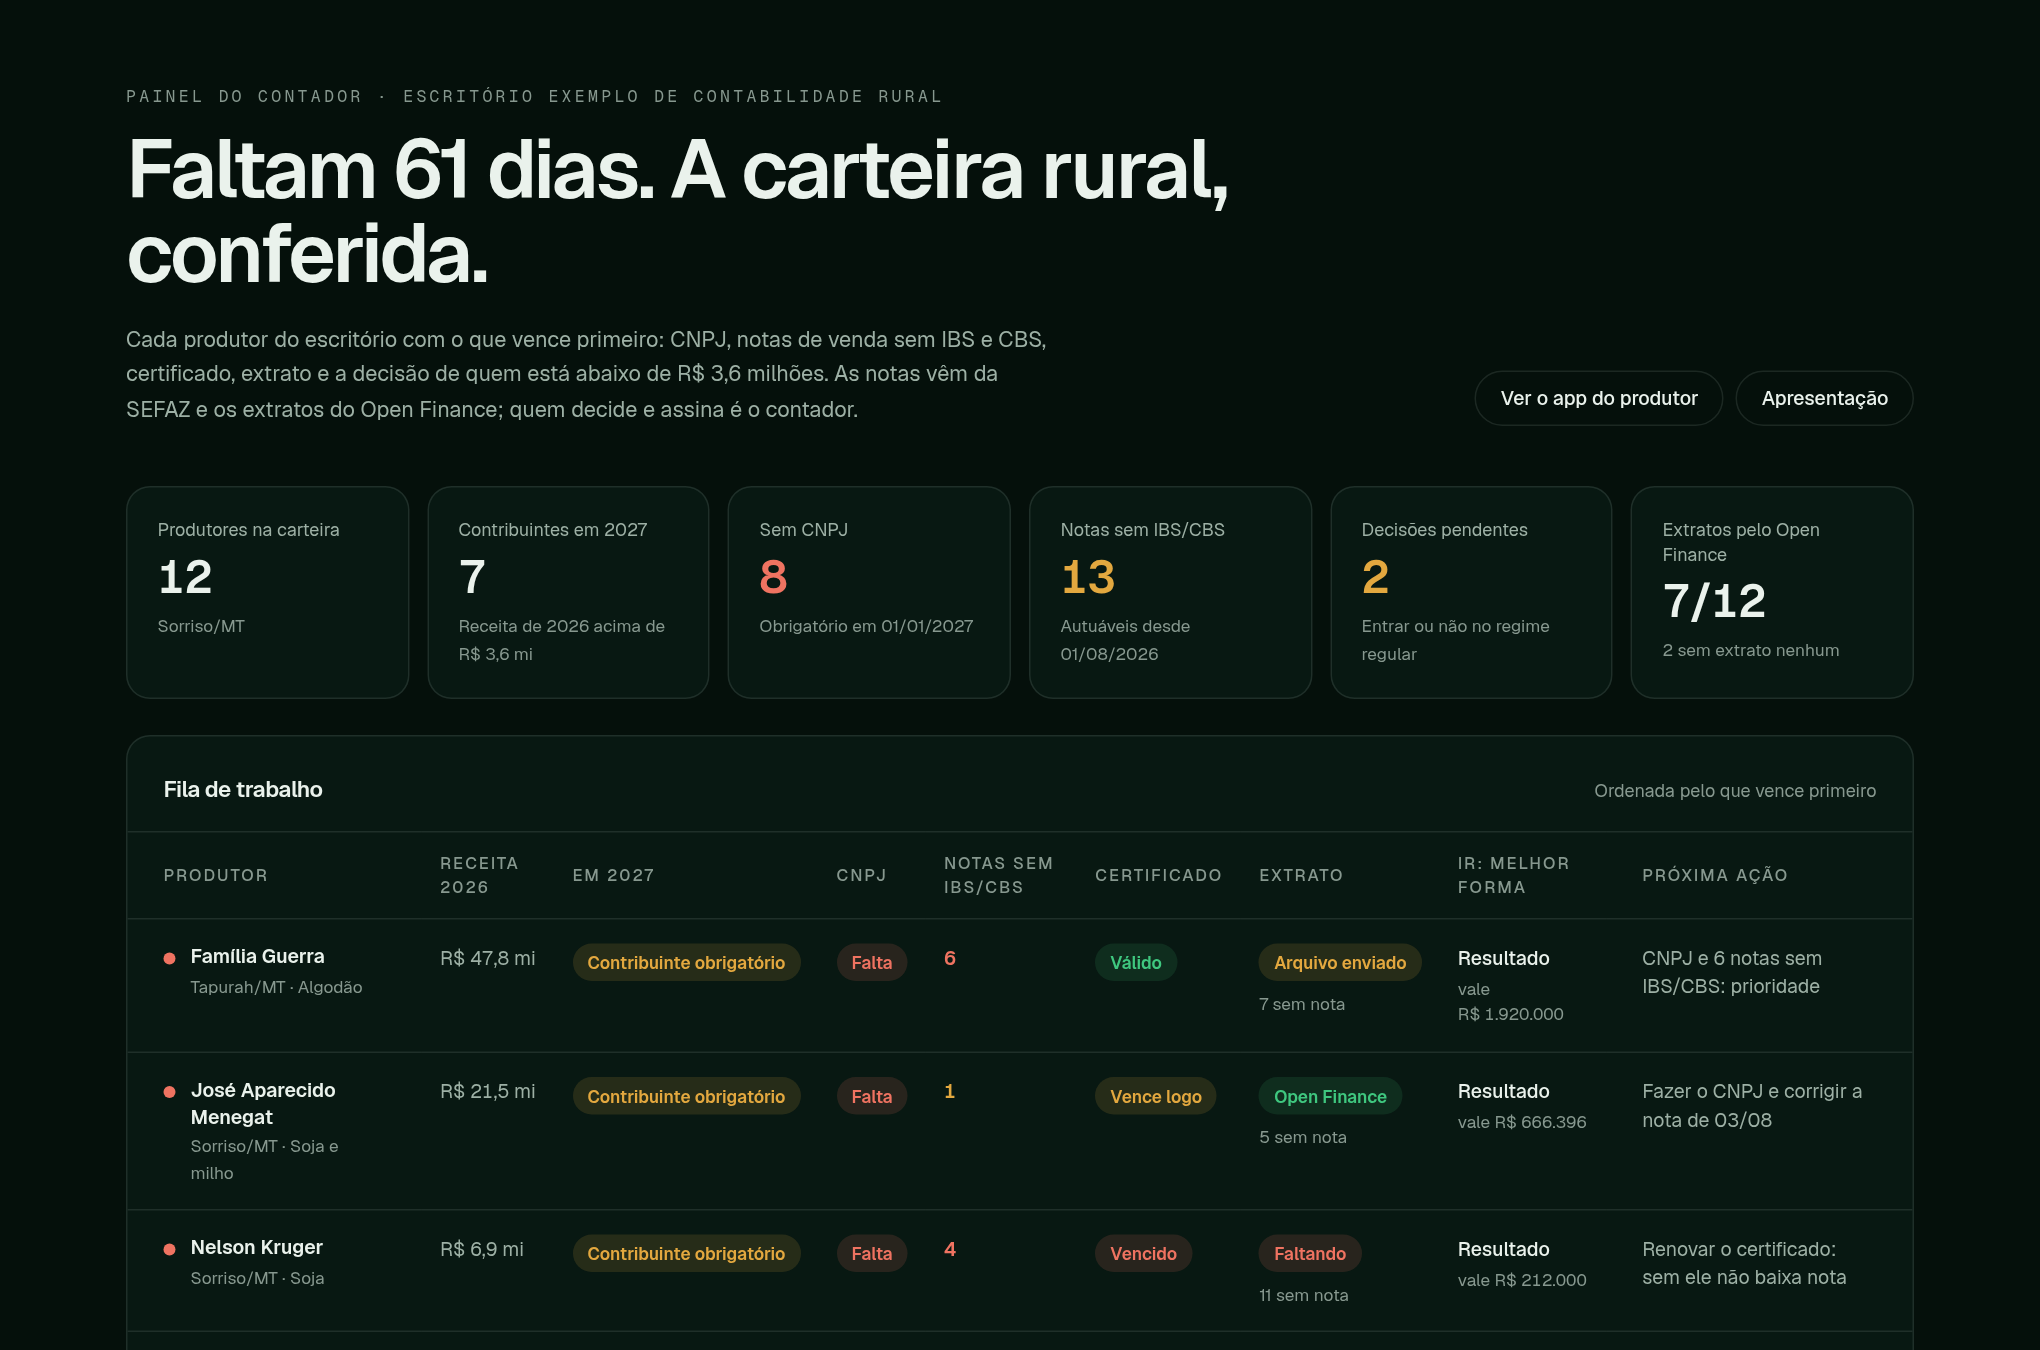
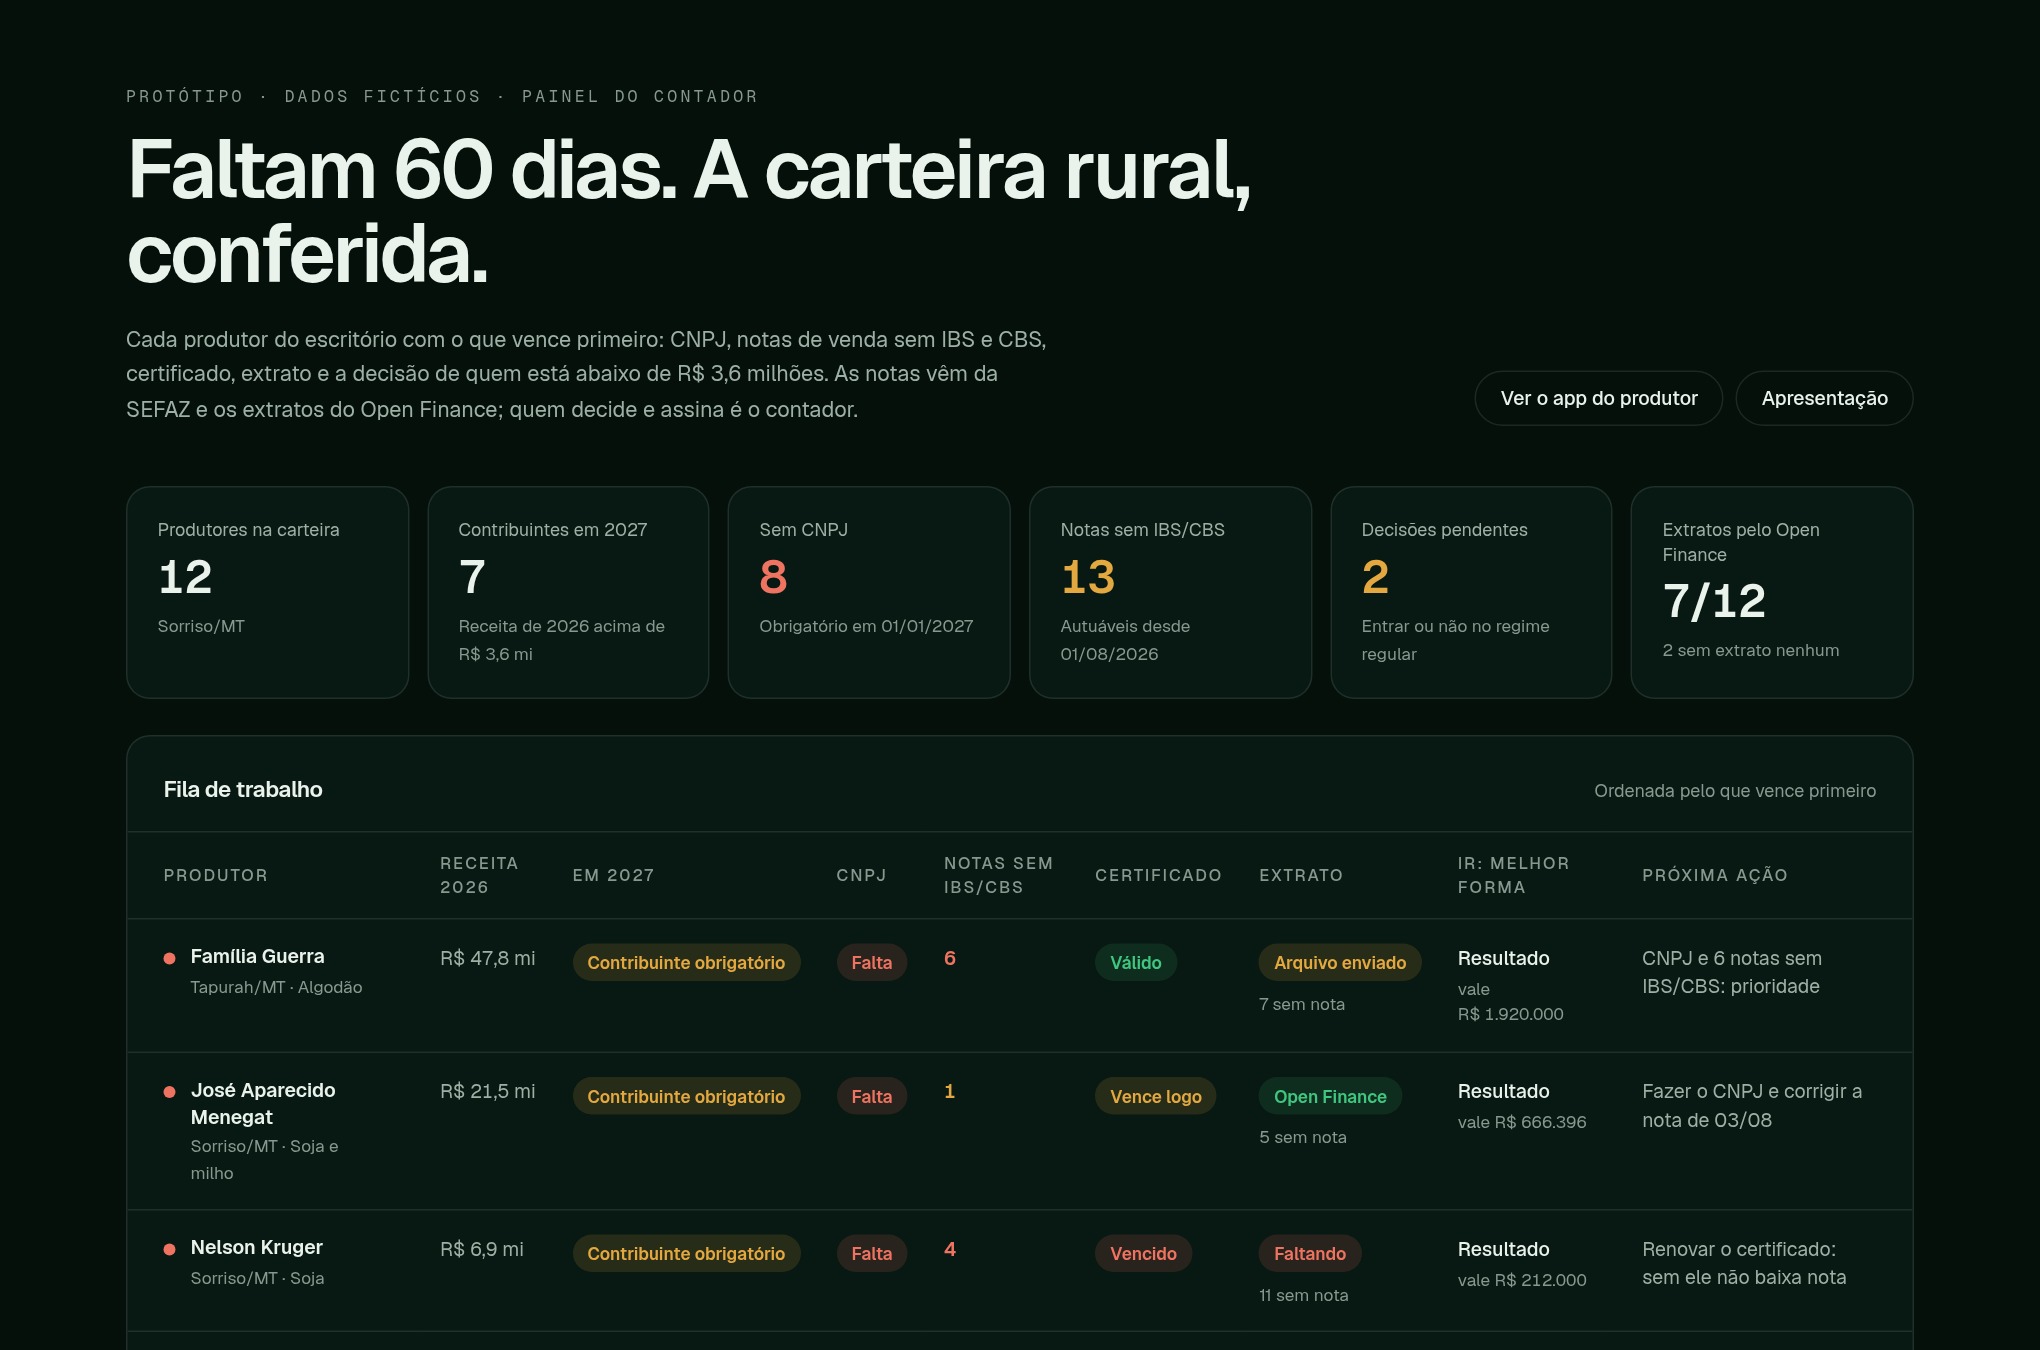
Deixa explícito que é protótipo e que a pesquisa está em andamento
Site, app e painel passam a dizer que não há sistema em operação, só um
protótipo de arquitetura com dados fictícios, e que os 11 resultados da
pesquisa são preliminares. Capturas refeitas com o selo de protótipo.

Changed region(s): [[0.2162, 0.0622, 0.6176, 0.1556], [0.1235, 0.0622, 0.1544, 0.0933], [0.0618, 0.0622, 0.0926, 0.0933]]

diff --git a/app/src/app/page.tsx b/app/src/app/page.tsx
@@ -408,7 +408,8 @@ const NORMAS = [
 ];
 
 const LIMITES = [
-  "Zero clientes. O protótipo demonstra a tese, não a comprova, e a pesquisa ouviu 11 produtores, quase todos fora do perfil-alvo.",
+  "Nada está em operação: não há sistema funcionando, integração real, cliente nem receita. O que existe é um protótipo navegável da arquitetura, com dados fictícios.",
+  "A pesquisa de mercado está em andamento: 11 respostas até agora, quase todas fora do perfil-alvo. Os resultados são preliminares e precisam de mais respostas.",
   "O Fisco vai pré-preencher a apuração mensal. Se conferir e planejar não valer dinheiro para o escritório, a cunha encolhe.",
   "O software contábil que o escritório já usa vai atualizar para IBS e CBS. Precisamos ser melhores no rural, não só existir.",
   "A alíquota da CBS e o crédito presumido ainda dependem de ato do governo. Toda simulação mostra as premissas.",
@@ -907,9 +908,9 @@ function Produto() {
   return (
     <>
       <Secao id="produto" className="pb-10 pt-24 md:pt-32">
-        <p className="rotulo mb-5">Protótipo funcional</p>
+        <p className="rotulo mb-5">Protótipo de arquitetura</p>
         <h2 className="display-2 max-w-[24ch] text-[clamp(1.8rem,3.4vw,2.7rem)]">
-          O painel do escritório e o app do produtor já rodam.
+          Como seria: o painel do escritório e o app do produtor.
         </h2>
         <Reveal delay={0.1}>
           <Link href="/contador" className="group mt-10 block">
@@ -927,8 +928,8 @@ function Produto() {
               <ArrowUpRight size={15} weight="bold" className="text-[--acento]" />
             </p>
             <p className="mt-1.5 max-w-[60ch] text-[13px] leading-relaxed text-[--tinta-2]">
-              Doze produtores de um escritório de Sorriso, ordenados pelo que vence primeiro. É a tela que
-              o cliente pagante usa.
+              Protótipo navegável com escritório e produtores fictícios, sem integração real. Mostra a tela
+              que o cliente pagante usaria.
             </p>
           </Link>
         </Reveal>
@@ -1075,11 +1076,11 @@ function Evidencia() {
       <div className="grid gap-14 lg:grid-cols-2 lg:gap-20">
         <div>
           <p className="rotulo mb-5">O que ouvimos</p>
-          <h2 className="display-2 max-w-[18ch]">11 produtores, e uma tese que não sobreviveu.</h2>
+          <h2 className="display-2 max-w-[18ch]">Pesquisa em andamento: o que 11 respostas já sugerem.</h2>
           <p className="mt-5 max-w-[46ch] text-[15px] leading-relaxed text-[--tinta-2]">
-            A pesquisa de dor de outubro mediu o que o produtor já vive, não o interesse num produto. Oito
-            dos onze são de Minas Gerais e sete faturam até R$ 1 milhão: não é o perfil-alvo. Mesmo assim,
-            ela derrubou duas certezas.
+            A pesquisa mede o que o produtor já vive, não o interesse num produto, e continua recebendo
+            respostas. Das 11 primeiras, 8 são de Minas Gerais e 7 faturam até R$ 1 milhão: não é o
+            perfil-alvo. Os resultados são preliminares, mas já colocam em dúvida duas certezas.
           </p>
           <ul className="mt-8 space-y-4">
             {[
@@ -1118,8 +1119,8 @@ function Evidencia() {
               ))}
             </div>
             <p className="mt-7 border-t border-[--linha] pt-5 text-[12px] leading-relaxed text-[--tinta-3]">
-              Pesquisa própria, outubro de 2026, respostas fechadas. Amostra pequena e de conveniência: serve
-              para derrubar hipótese, não para estimar o mercado.
+              Pesquisa própria em andamento desde outubro de 2026, respostas fechadas. Resultado preliminar de
+              amostra pequena e de conveniência: precisa de mais respostas e não estima o mercado.
             </p>
           </div>
         </Reveal>
@@ -1425,7 +1426,7 @@ function Fecho() {
             <span className="mx-auto flex h-11 w-11 items-center justify-center rounded-xl bg-[--acento-fundo] text-[--acento]">
               <Plant size={21} weight="duotone" />
             </span>
-            <h2 className="display-2 mx-auto mt-6 max-w-[20ch]">O produto está de pé. O que falta é cliente.</h2>
+            <h2 className="display-2 mx-auto mt-6 max-w-[20ch]">A arquitetura está desenhada. O que falta é provar.</h2>
             <p className="mx-auto mt-6 max-w-[54ch] text-[15.5px] leading-relaxed text-[--tinta-2]">
               Duas semanas, vinte conversas, cinco pilotos manuais para provar a porta de entrada. Depois,
               degrau por degrau: o produtor sem contador, o motor de crédito e o marketplace.

diff --git a/app/src/components/shell.tsx b/app/src/components/shell.tsx
@@ -128,7 +128,12 @@ export function Shell({ children }: { children: ReactNode }) {
       {/* Moldura do app: ocupa a tela no celular, vira um aparelho no desktop. */}
       <div className="relative flex h-screen w-full max-w-[430px] flex-col overflow-hidden bg-canvas md:h-[860px] md:max-h-[92vh] md:rounded-[38px] md:shadow-float md:ring-1 md:ring-black/5">
         <header className="flex shrink-0 items-center justify-between gap-3 px-5 pb-3 pt-5">
-          <Logo size={34} />
+          <span className="flex items-center gap-2.5">
+            <Logo size={34} />
+            <span className="rounded-full bg-raised px-2.5 py-1 text-[11px] font-semibold text-muted">
+              protótipo · dados fictícios
+            </span>
+          </span>
           <Menu />
         </header>
 

diff --git a/app/src/lib/negocio.ts b/app/src/lib/negocio.ts
@@ -60,13 +60,13 @@ export function metricas(): Metrica[] {
       chave: "clientes",
       rotulo: "Escritórios pagando hoje",
       valor: "0",
-      nota: "Ponto de partida honesto. A meta de 90 dias é 3.",
+      nota: "Nada em operação: só um protótipo de arquitetura. Meta de 90 dias: 3.",
     },
     {
       chave: "pesquisa",
-      rotulo: "Produtores ouvidos",
+      rotulo: "Respostas da pesquisa",
       valor: "11",
-      nota: "Pesquisa de dor, out/2026. Amostra pequena e fora do perfil-alvo.",
+      nota: "Pesquisa em andamento. Resultados preliminares; precisa de mais respostas.",
     },
     {
       chave: "escritorio",

diff --git a/app/src/app/app/negocio/page.tsx b/app/src/app/app/negocio/page.tsx
@@ -230,8 +230,8 @@ export default function Negocio() {
       <div className="flex gap-3 rounded-card bg-raised px-4 py-3.5">
         <Chip tom="atencao">hipótese</Chip>
         <p className="text-[12.5px] leading-relaxed text-muted">
-          Preços e metas a testar nas conversas com contadores. Nenhum número aqui é resultado: a Coope
-          ainda não tem cliente pagante.
+          Preços e metas a testar nas conversas com contadores. Nenhum número aqui é resultado: não há
+          sistema em operação, cliente nem receita, só este protótipo com dados fictícios.
         </p>
       </div>
     </div>

diff --git a/app/src/app/contador/page.tsx b/app/src/app/contador/page.tsx
@@ -85,7 +85,7 @@ export default function PainelContador() {
     <main className="mx-auto max-w-[1240px] px-4 py-10 sm:px-6 md:py-14">
       <header className="mb-10 flex flex-wrap items-end justify-between gap-6">
         <div className="min-w-0">
-          <p className="rotulo">Painel do contador · {c.escritorio}</p>
+          <p className="rotulo">Protótipo · dados fictícios · painel do contador</p>
           <h1 className="display-2 mt-3 max-w-[22ch]">
             Faltam {c.diasParaCbs} dias. A carteira rural, conferida.
           </h1>
